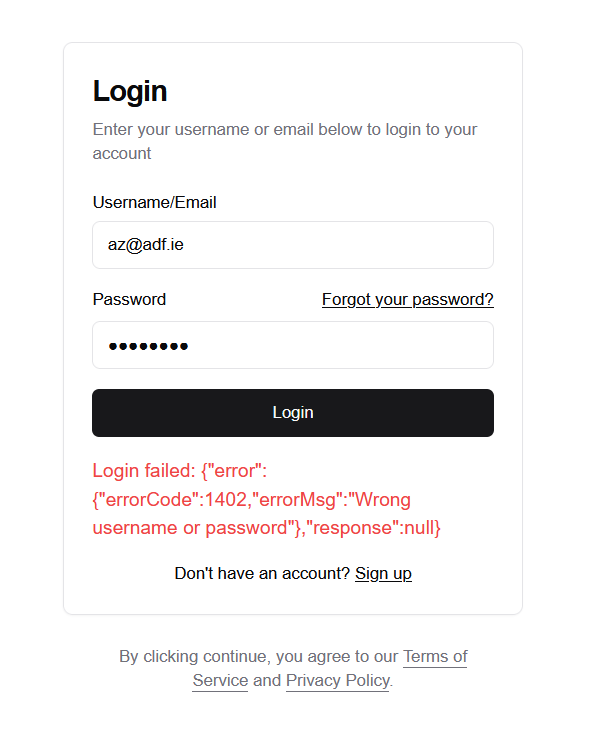
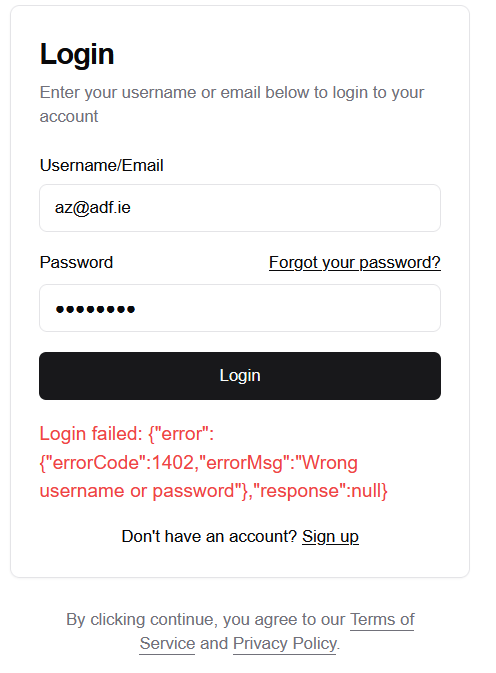
Update accessb
format changes to ux review + content changes to accessb review

diff --git a/Documentation/final-report/pages/evaluation/accessibility_review.tex b/Documentation/final-report/pages/evaluation/accessibility_review.tex
@@ -1,15 +1,21 @@
-We requested a review of our system from Accessibility expert Damian Gordon. He served on the board of the National Disability Authority, who advise the Irish Government on all matters related to disability, and he has worked with a wide range of disability organisations, include the Centre Remedial Clinic, the National Council for the Blind, Arthritis Ireland, and the Aging Well Network. He has contributed to the development of hardware, software, legislation and training related to disability awareness and accessibility. \\\\
-The goal of this review is to evaluate the accessibility, inclusivity and universal design of the Magpie and evaluate it with regards to key accessibility general guidelines.\\\\
-
-In the context of this project, accessibility refers to considerations for users with visual, auditory, cognitive and/or physical impairments; inclusiveness refers to considerations for users for whom English isn't their first language, older users and users with gender or affective issues; and universal design refers to compatibility of Magpie with different devices, browsers and networks.\\
+\noindent In the context of this project, accessibility refers to considerations for users with visual, auditory, cognitive and/or physical impairments; inclusiveness refers to considerations for users for whom English isn't their first language, older users and users with gender or affective issues; and universal design refers to compatibility of Magpie with different devices, browsers and networks.\\
 The accessibility general guidelines we'll be evaluating Magpie on are from the EU Web Accessibility Directive. This directive came into effect at the end of 2016 and aims to \emph{make public sector websites and mobile applications more accessible, and to harmonise varying standards within the European Union (...)}(\cite{webaccessibilitydirective2016}).\\\\
 \fcolorbox{yellow}{yellow}{INCLUDE SUMMARY OF THOSE GUIDELINES}\\
-\fcolorbox{yellow}{yellow}{INCLUDE TABLE OF GUIDELINES MAGPIE WILL BE EVALUATED ON}\\
 There is an inherent limitation of accessibility for map-based systems, especially for visually impaired users. Visual impairment is categorized as having a type of eye disorder and/or a degree of vision loss; an estimate of 2.2 billion people globally have vision impairment (\cite{whoworldreportvision2019}) and 297,000 (5.6\%) of the population in Ireland(\cite{visionirelandcensus}).\\
-A graphical user interface (GUI) design that is kept simple, understandable and predictable helps improve the accessibility of any application, especially for map-based system as demonstrated in \cite{usabilityaccessibilitywebmaps2016}.
+The paper by \cite{accessibilitywebmapsrecommendations2017} which relied on data from two projects aimed at developing web-map applications for visually impaired individuals has presented several recommendations, the following which we will guide Magpie's accessibility evaluation:
+\begin{itemize}
+    \item \textbf{UI components:} Creating a UI that is simple, understandable and follows a clear predictable layout. Implement only necessary control elements, group them by similar focus and place them in areas that are familiar (similar in other programs). The UI should be flat while avoiding dropdowns, scrolling and nested/overlapping elements. Control elements overlapping the map makes it difficult for visually impaired users to read the map and use the controls, so this practice should be avoided.
+    \item \textbf{UI design:} Size and colour of UI components should be chosen to provide high contrast between different elements; if symbols are used they should be easily recognizable and complex backgrounds should be avoided.
+    \item \textbf{UI language:} Familiar and easy recognizable terms should be used on the interface so as to not scare off users with unknown technical terms and make the application accessible to all.
+    \item \textbf{UI interaction:} A user should be able to interact with the interface using both a mouse and keyboard on desktop; keyboard accessibility is key for improving accessibility for visually impaired users.
+\end{itemize}
+\fcolorbox{yellow}{yellow}{CREATE NEW SURVEY TO RATE ACCESSIBILITY MAGPIE BASED ON ABOVE}\\
 
+We requested a review of our system from Accessibility expert Damian Gordon. He served on the board of the National Disability Authority, who advise the Irish Government on all matters related to disability, and he has worked with a wide range of disability organisations, include the Centre Remedial Clinic, the National Council for the Blind, Arthritis Ireland, and the Aging Well Network. He has contributed to the development of hardware, software, legislation and training related to disability awareness and accessibility. \\\\
 
-The session was conducted on November 21st during the usability testing phase of Magpie. The session was conducted online through videoconference meeting on Teams and took the following format:
+The goal of this review is to evaluate the accessibility, inclusivity and universal design of the Magpie and evaluate it with regards to the accessibility guidelines and recommendations detailed above.\\\\
+
+\noindent The review was conducted on November 21st during the usability testing phase of Magpie. The session was conducted online through videoconference meeting on Teams and took the following format:
 \begin{enumerate}
     \item Presentation of Magpie
     \item Scenario given to use the application
@@ -21,7 +27,7 @@ The scenario given can be seen in the table below. A scenario was given so as to
 \begin{table}[h!]
     \centering
     \caption{Scenario for the Accessibility review}
-    \begin{tabular}{|p{\textwidth}|}
+    \begin{tabular}{|p{0.9\textwidth}|}
         \hline
         \textbf{Scenario:}                                                                                                                                                                                                                                                                                         \\
         \hline
@@ -41,9 +47,8 @@ The scenario given can be seen in the table below. A scenario was given so as to
 \end{table}
 \\
 The questionnaire is the same as the one given to the users who participated in the usability testing. In hindsight, a tailored questionnaire should've been created for Damian Gordon, to specifically evaluate key accessibility items in Magpie.
-\fcolorbox{yellow}{yellow}{YOU CAN STILL CREATE IT NO???}\\\\
 
-Throughout the session, we were also observing Damian Gordon's behaviour and if he was able to complete general tasks related to the main features of Magpie. The results can be seen in the table below, it recorded if they were able to complete the task, how difficult it was for them based on behavioural cues and any errors bugs encountered during the task. We were not able to record the time taken for each task due to the informal administration of them, the user was not aware we were "grading" them in a sense.\\
+\noindent Throughout the session, we were also observing Damian Gordon's behaviour and if he was able to complete general tasks related to the main features of Magpie. The results can be seen in the table below, it recorded if they were able to complete the task, how difficult it was for them based on behavioural cues and any errors bugs encountered during the task. We were not able to record the time taken for each task due to the informal administration of them, the user was not aware we were "grading" them in a sense.\\
 The difficulty of the task is related to if they were able to complete it and how much they struggled during it. The status of a task can either be "complete", "pass", or "fail" where "complete" is attributed when the user does the task on their own, "pass" is attributed when the user was able to complete the task but with our help, and "fail" when the user were not able to do the task even with our help. \\
 %table for general tasks completion & difficulty
 \begin{table}[h!]
@@ -82,7 +87,8 @@ The difficulty of the task is related to if they were able to complete it and ho
     \end{tabular}
 \end{table}
 
-The review provided some useful insights with regards to missing features to complete the scenario and areas of Magpie that comply with accessibility standards. Below were the main takeaways:\\
+\newpage
+\noindent The review provided some useful insights with regards to missing features to complete the scenario and areas of Magpie that comply with accessibility standards. Below were the main takeaways:\\
 \textbf{Dashboard: }
 Damian Gordon had some trouble locating the recreation centre during the scenario, and advise that have a search bar would remove the difficulty and give options for those who may be visually impaired to find a location on the map, and also for those who may not know where the area they're looking for is located.\\\\
 \textbf{Onboarding: }
@@ -93,8 +99,9 @@ Damian Gordon found the steps in the onboarding very wordy and too long, which m
     \fbox{\includegraphics[width=0.9\textwidth]{images/onboarding-text-v1.png}}
     \caption{V.0.1 Magpie Onboarding Steps}
 \end{figure}
-\textbf{Map: }
-Going back to the zooming feature Damian Gordon struggled with, adding zoom in and zoom out buttons directly on the map would offer an alternative to those not able to use the mouse for the action, further improving Magpie's accessibility.\\In addition, the profile and onboarding icons blended into the map which made it difficult for Damian Gordon to go back to the onboarding or log out \fcolorbox{yellow}{yellow}{AS SHOWN IN THE FIGURE BELOW}.\\\\
+\newpage
+\noindent\textbf{Map: }
+Going back to the zooming feature Damian Gordon struggled with, adding zoom in and zoom out buttons directly on the map would offer an alternative to those not able to use the mouse for the action, further improving Magpie's accessibility.\\In addition, the profile and onboarding icons blended into the map which made it difficult for Damian Gordon to go back to the onboarding or log out as shown in the figure below.
 %figure for the old icons for profile and onboarding
 \begin{figure}
     \centering
@@ -102,4 +109,5 @@ Going back to the zooming feature Damian Gordon struggled with, adding zoom in a
     \caption{V.0.1 Magpie Profile \& Onboarding icons}
 \end{figure}
 
+\newpage
 Lastly, his survey responses \fcolorbox{yellow}{yellow}{BLA BLA BLA TEXT TEXT BLA...}

diff --git a/Documentation/final-report/pages/evaluation/ux_review.tex b/Documentation/final-report/pages/evaluation/ux_review.tex
@@ -2,7 +2,7 @@ We requested a review of our system from UI/UX professional Andrea Curley. \fcol
 The goal of this review is to evaluate the user interface of Magpie at different stages of development and rate its user-friendliness in regards to key UI/UX general guidelines.\\
 \fcolorbox{yellow}{yellow}{UX general guidelines: outline them here} \\ \\
 
-Two session were conducted: one on November 13 after the publication of our first minimum viable product, and the other on \fcolorbox{yellow}{yellow}{INSERT DATE} at the end of the development timeline. Both sessions were conducted online through a videoconference meeting on Teams and took the following form:
+\noindent Two session were conducted: one on November 13 after the publication of our first minimum viable product, and the other on \fcolorbox{yellow}{yellow}{INSERT DATE} at the end of the development timeline. Both sessions were conducted online through a videoconference meeting on Teams and took the following form:
 \begin{enumerate}
     \item Presentation of Magpie
     \item Free-roaming of the application by Andrea Curley
@@ -14,7 +14,7 @@ The questionnaire includes questions on visual design, information architecture,
 \begin{table}[h!]
     \centering
     \caption{Expert Review Questionnaire}
-    \begin{tabular}{|p{0.03\textwidth}|p{0.82\textwidth}|p{0.15\textwidth}|}
+    \begin{tabular}{|p{0.03\textwidth}|p{0.75\textwidth}|p{0.15\textwidth}|}
         \hline
             & \textbf{Question}                                                                                                        & \textbf{Question type} \\
         \hline
@@ -55,51 +55,56 @@ In addition, Professor Curley suggested there should be an option to exit the tu
 \textbf{Dashboard \& Map: }
 Currently, the hierarchy of items on the dashboard does not make sense to the average, and is not intuitive to use. All the amenities are displayed when only one is selected (as shown in figure 3.3) and their count displays zero, which the user might interpret as there are zero other amenities in the area in addition to the one I selected.\\
 The icons on the map are not visible enough, and zooming in \& out on the map may not be intuitive to the range of users and devices. Adding zoom buttons could help bridge that gap. \\
-Currently, Professor Curley noted that there is a disconnect between the map and the dashboard whereas they should be looked as one. She suggested adding amenity icons to the dashboard to help bridge that gap.\\
+Currently, Professor Curley noted that there is a disconnect between the map and the dashboard whereas they should be looked as one. She suggested adding amenity icons to the dashboard to help bridge that gap.
 %figure for the old confusing dashboard
 \begin{figure}
-    \fbox{\includegraphics[width=\textwidth]{images/old-dashboard_opt.png}}
+    \centering
+    \fbox{\includegraphics[width=0.8\textwidth]{images/old-dashboard_opt.png}}
     \caption{V.0.1 Magpie Dashboard \& Map when 2 amenities are selected}
 \end{figure}
 
-\textbf{Filters: }
+\noindent\textbf{Filters: }
 If there are no amenities found in the radius of search, a message should pop up to tell the user so. Currently, it is not very clear if there are amenities present in the chosen area especially due to the small size \& faded color of the icons. \\ \\
+\newpage
 \textbf{Log in/sign up: }
 When trying to log in with credentials that don't exist, the system should return a proper error such as "username doesn't exist". Log out and account sign up went smoothly. Professor Curley questioned the benefits of logging for Magpie, to which we stated:
 Magpie was conceived with the idea of providing a service to working professionals; therefore logging in will allow the implementation of further features such as safeguarding their previous searches, storing exported reports, connecting with other members of your organization and much more.
 %figure for the log in error
 \begin{figure}
     \centering
-    \fbox{\includegraphics[width=0.4\textwidth]{images/old-login-error.png}}
+    \fbox{\includegraphics[width=0.3\textwidth]{images/old-login-error.png}}
     \caption{Error message when using inexistant username and password}
 \end{figure}
 
-\textbf{Survey response: }
+\newpage
+\noindent\textbf{Survey response: }
 Below are the answers to the expert review survey. The response to the survey help complement the oral feedback received during the expert review and provide some quantitative data as a baseline for the next evaluation. The two open-ended questions, to which she asked us to elaborate further, will help us review future open-ended questions and ensure they give enough information for the user to answer.A score has been attributed to each section of the survey based on the responses from Andrea.\\\\
 The first section covers usability of the main items of Magpie's user interface which scored 3.5 out of 5. The items which brought the score down are the onboarding and the clarity of the map visualization, further supported by the vocal feedback Andrea provided on the un-intuitive flow and disconnect between the map and the dashboard.\\
-The second section covers the information architecture and data quality of the amenities. It looks at the features displaying the information and the score reflects the problems aforementioned with the dashboard as well as the incomplete profile menu. Furthermore, Q8 asks Andrea to assume the value of Magpie as a tool for different use cases where our target users (Urban planners and Event planners) were rated as "Valuable". This rating is useful but it remains an assumption.\\
-Lastly, the third section covers the technical aspects of Magpie, and the low score of 2.88/5 reflects a major authentication bug encountered during the testing session, as well as lagging of the points on the map due to technical difficulties.\\
-Overall, Magpie scored \underline{3.13 out of 5} for this first UX review session. This is the baseline, and the objective for the next session is to score above \underline{3.5 out of 5} overall, and significantly improve the scores for the onboarding, the dashboard flow and the system responsiveness.\\\\
-\textbf{Summary: }
-To conclude the first session, Professor Curley found our interface sleek and minimalistic. However, she suggested that if we want to remain with this style, we need to ensure there is as little room as possible for ambiguity and confusion. The user needs to find it easy to move from one feature to another and understand the triggers. Currently, Magpie looks so sleek that the user may not be able to see what they want.
 %figure of 1st survey responses = UI
 \begin{figure}
     \centering
     \fbox{\includegraphics[width=0.7\textwidth]{images/ux-survey1-ui.png}}
     \caption{UX Expert survey response on Magpie UI}
 \end{figure}
+\newpage
+The second section covers the information architecture and data quality of the amenities. It looks at the features displaying the information and the score reflects the problems aforementioned with the dashboard as well as the incomplete profile menu. Furthermore, Q8 asks Andrea to assume the value of Magpie as a tool for different use cases where our target users (Urban planners and Event planners) were rated as "Valuable". This rating is useful but it remains an assumption.\\
 %figure of 1st survey responses = Data
 \begin{figure}
     \centering
     \fbox{\includegraphics[width=0.7\textwidth]{images/ux-survey1-data.png}}
     \caption{UX Expert survey response on Magpie Information Architecture}
 \end{figure}
+\newpage
+Lastly, the third section covers the technical aspects of Magpie, and the low score of 2.88/5 reflects a major authentication bug encountered during the testing session, as well as lagging of the points on the map due to technical difficulties.\\
+Overall, Magpie scored \underline{3.13 out of 5} for this first UX review session. This is the baseline, and the objective for the next session is to score above \underline{3.5 out of 5} overall, and significantly improve the scores for the onboarding, the dashboard flow and the system responsiveness.\\\\
 %figure of 1st survey responses = Technical
 \begin{figure}
     \centering
     \fbox{\includegraphics[width=0.7\textwidth]{images/ux-survey1-technical.png}}
     \caption{UX Expert survey response on Magpie Technical Performance}
 \end{figure}
+\textbf{Summary: }
+To conclude the first session, Professor Curley found our interface sleek and minimalistic. However, she suggested that if we want to remain with this style, we need to ensure there is as little room as possible for ambiguity and confusion. The user needs to find it easy to move from one feature to another and understand the triggers. Currently, Magpie looks so sleek that the user may not be able to see what they want.
 %figure of 1st survey responses = Summary
 \begin{figure}
     \centering
@@ -107,6 +112,8 @@ To conclude the first session, Professor Curley found our interface sleek and mi
     \caption{UX Expert score of Magpie}
 \end{figure}
 
+\newpage
 \subsubsection{Session 2}
-The second session informed us of the points we were able to improve on as well as features to be looked at in the future. These were the main takeaways:\\
+The second session informed us of the points we were able to improve on from the first session as well as features to be looked at in the future. These were the main takeaways:\\
 \fcolorbox{yellow}{yellow}{SECOND SESSION NOTES}
+\newpage
